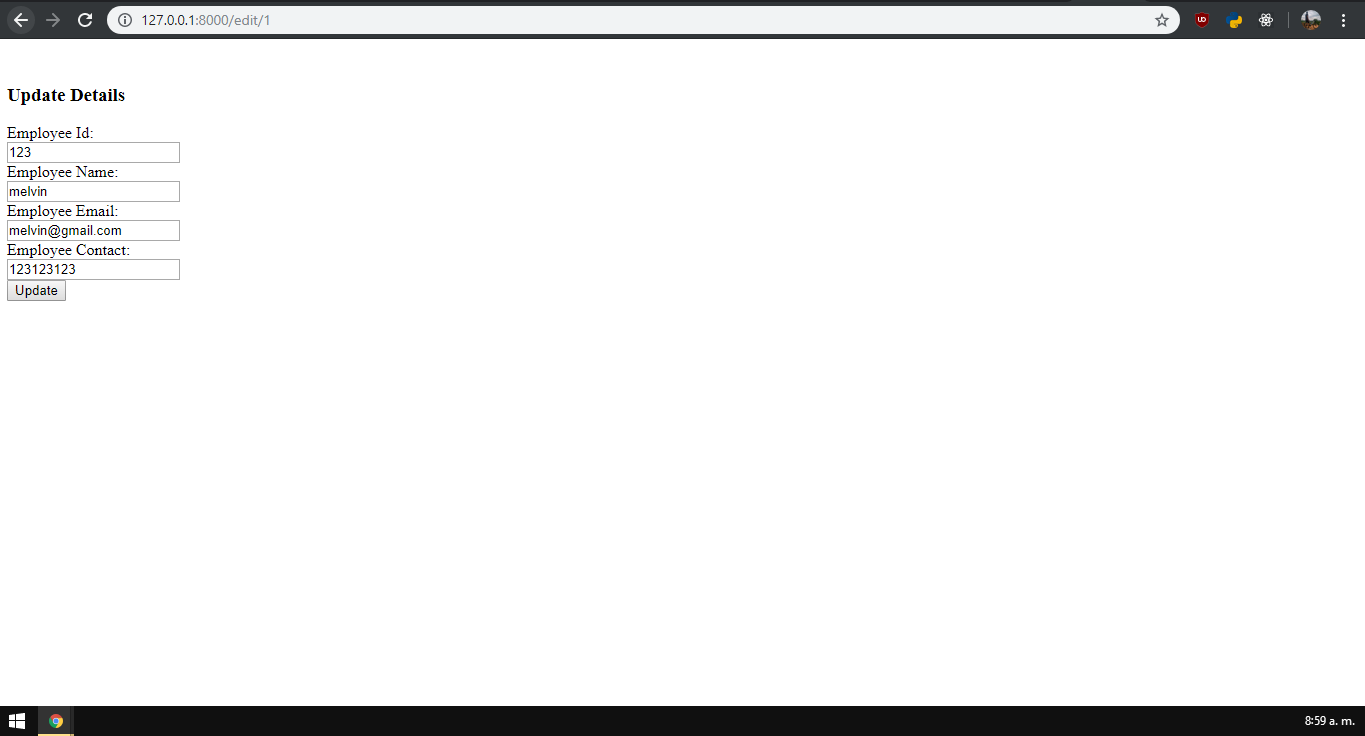
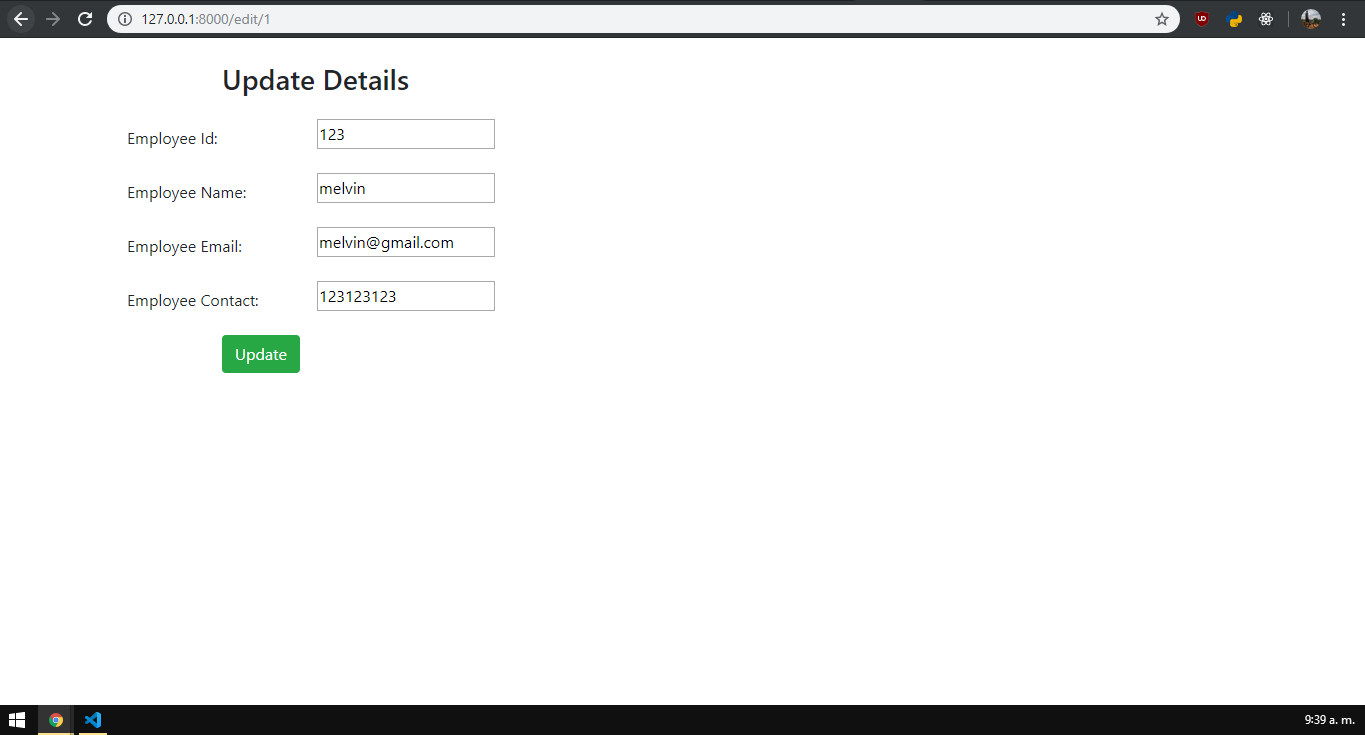
Add bootstrap

diff --git a/employee/templates/edit.html b/employee/templates/edit.html
@@ -1,53 +1,66 @@
-<!DOCTYPE html>  
-<html lang="en">  
-<head>  
-    <meta charset="UTF-8">  
-    <title>Index</title>  
-    {% load staticfiles %}  
-    <link rel="stylesheet" href="{% static 'css/style.css' %}"/>  
-</head>  
-<body>  
-<form method="POST" class="post-form" action="/update/{{employee.id}}">  
-        {% csrf_token %}  
-    <div class="container">  
-<br>  
-    <div class="form-group row">  
-    <label class="col-sm-1 col-form-label"></label>  
-    <div class="col-sm-4">  
-    <h3>Update Details</h3>  
-    </div>  
-  </div>  
-    <div class="form-group row">  
-    <label class="col-sm-2 col-form-label">Employee Id:</label>  
-    <div class="col-sm-4">  
-        <input type="text" name="eid" id="id_eid" required maxlength="20" value="{{ employee.eid }}"/>  
-    </div>  
-  </div>  
-  <div class="form-group row">  
-    <label class="col-sm-2 col-form-label">Employee Name:</label>  
-    <div class="col-sm-4">  
-        <input type="text" name="ename" id="id_ename" required maxlength="100" value="{{ employee.ename }}" />  
-    </div>  
-  </div>  
-    <div class="form-group row">  
-    <label class="col-sm-2 col-form-label">Employee Email:</label>  
-    <div class="col-sm-4">  
-        <input type="email" name="eemail" id="id_eemail" required maxlength="254" value="{{ employee.eemail }}" />  
-    </div>  
-  </div>  
-    <div class="form-group row">  
-    <label class="col-sm-2 col-form-label">Employee Contact:</label>  
-    <div class="col-sm-4">  
-        <input type="text" name="econtact" id="id_econtact" required maxlength="15" value="{{ employee.econtact }}" />  
-    </div>  
-  </div>  
-    <div class="form-group row">  
-    <label class="col-sm-1 col-form-label"></label>  
-    <div class="col-sm-4">  
-    <button type="submit" class="btn btn-success">Update</button>  
-    </div>  
-  </div>  
-    </div>  
-</form>  
-</body>  
-</html>  
+<!DOCTYPE html>
+<html lang="en">
+
+<head>
+  <meta charset="UTF-8">
+  <title>Index</title>
+  {% load staticfiles %}
+  <link rel="stylesheet" href="https://stackpath.bootstrapcdn.com/bootstrap/4.3.1/css/bootstrap.min.css"
+    integrity="sha384-ggOyR0iXCbMQv3Xipma34MD+dH/1fQ784/j6cY/iJTQUOhcWr7x9JvoRxT2MZw1T" crossorigin="anonymous">
+</head>
+
+<body>
+  <script src="https://code.jquery.com/jquery-3.3.1.slim.min.js"
+    integrity="sha384-q8i/X+965DzO0rT7abK41JStQIAqVgRVzpbzo5smXKp4YfRvH+8abtTE1Pi6jizo"
+    crossorigin="anonymous"></script>
+  <script src="https://cdnjs.cloudflare.com/ajax/libs/popper.js/1.14.7/umd/popper.min.js"
+    integrity="sha384-UO2eT0CpHqdSJQ6hJty5KVphtPhzWj9WO1clHTMGa3JDZwrnQq4sF86dIHNDz0W1"
+    crossorigin="anonymous"></script>
+  <script src="https://stackpath.bootstrapcdn.com/bootstrap/4.3.1/js/bootstrap.min.js"
+    integrity="sha384-JjSmVgyd0p3pXB1rRibZUAYoIIy6OrQ6VrjIEaFf/nJGzIxFDsf4x0xIM+B07jRM"
+    crossorigin="anonymous"></script>
+  <form method="POST" class="post-form" action="/update/{{employee.id}}">
+    {% csrf_token %}
+    <div class="container">
+      <br>
+      <div class="form-group row">
+        <label class="col-sm-1 col-form-label"></label>
+        <div class="col-sm-4">
+          <h3>Update Details</h3>
+        </div>
+      </div>
+      <div class="form-group row">
+        <label class="col-sm-2 col-form-label">Employee Id:</label>
+        <div class="col-sm-4">
+          <input type="text" name="eid" id="id_eid" required maxlength="20" value="{{ employee.eid }}" />
+        </div>
+      </div>
+      <div class="form-group row">
+        <label class="col-sm-2 col-form-label">Employee Name:</label>
+        <div class="col-sm-4">
+          <input type="text" name="ename" id="id_ename" required maxlength="100" value="{{ employee.ename }}" />
+        </div>
+      </div>
+      <div class="form-group row">
+        <label class="col-sm-2 col-form-label">Employee Email:</label>
+        <div class="col-sm-4">
+          <input type="email" name="eemail" id="id_eemail" required maxlength="254" value="{{ employee.eemail }}" />
+        </div>
+      </div>
+      <div class="form-group row">
+        <label class="col-sm-2 col-form-label">Employee Contact:</label>
+        <div class="col-sm-4">
+          <input type="text" name="econtact" id="id_econtact" required maxlength="15" value="{{ employee.econtact }}" />
+        </div>
+      </div>
+      <div class="form-group row">
+        <label class="col-sm-1 col-form-label"></label>
+        <div class="col-sm-4">
+          <button type="submit" class="btn btn-success">Update</button>
+        </div>
+      </div>
+    </div>
+  </form>
+</body>
+
+</html>

diff --git a/employee/templates/index.html b/employee/templates/index.html
@@ -1,53 +1,59 @@
-<!DOCTYPE html>  
-<html lang="en">  
-<head>  
-    <meta charset="UTF-8">  
-    <title>Index</title>  
-    {% load staticfiles %}  
-    <link rel="stylesheet" href="{% static 'css/style.css' %}"/>  
-</head>  
-<body>  
-<form method="POST" class="post-form" action="/emp">  
-        {% csrf_token %}  
-    <div class="container">  
-<br>  
-    <div class="form-group row">  
-    <label class="col-sm-1 col-form-label"></label>  
-    <div class="col-sm-4">  
-    <h3>Enter Details</h3>  
-    </div>  
-  </div>  
-    <div class="form-group row">  
-    <label class="col-sm-2 col-form-label">Employee Id:</label>  
-    <div class="col-sm-4">  
-      {{ form.eid }}  
-    </div>  
-  </div>  
-  <div class="form-group row">  
-    <label class="col-sm-2 col-form-label">Employee Name:</label>  
-    <div class="col-sm-4">  
-      {{ form.ename }}  
-    </div>  
-  </div>  
-    <div class="form-group row">  
-    <label class="col-sm-2 col-form-label">Employee Email:</label>  
-    <div class="col-sm-4">  
-      {{ form.eemail }}  
-    </div>  
-  </div>  
-    <div class="form-group row">  
-    <label class="col-sm-2 col-form-label">Employee Contact:</label>  
-    <div class="col-sm-4">  
-      {{ form.econtact }}  
-    </div>  
-  </div>  
-    <div class="form-group row">  
-    <label class="col-sm-1 col-form-label"></label>  
-    <div class="col-sm-4">  
-    <button type="submit" class="btn btn-primary">Submit</button>  
-    </div>  
-  </div>  
-    </div>  
-</form>  
-</body>  
-</html>  
+<!DOCTYPE html>
+<html lang="en">
+
+<head>
+  <meta charset="UTF-8">
+  <title>Index</title>
+  {% load staticfiles %}
+  <link rel="stylesheet" href="https://stackpath.bootstrapcdn.com/bootstrap/4.3.1/css/bootstrap.min.css" integrity="sha384-ggOyR0iXCbMQv3Xipma34MD+dH/1fQ784/j6cY/iJTQUOhcWr7x9JvoRxT2MZw1T" crossorigin="anonymous">
+</head>
+
+<body>
+    <script src="https://code.jquery.com/jquery-3.3.1.slim.min.js" integrity="sha384-q8i/X+965DzO0rT7abK41JStQIAqVgRVzpbzo5smXKp4YfRvH+8abtTE1Pi6jizo" crossorigin="anonymous"></script>
+    <script src="https://cdnjs.cloudflare.com/ajax/libs/popper.js/1.14.7/umd/popper.min.js" integrity="sha384-UO2eT0CpHqdSJQ6hJty5KVphtPhzWj9WO1clHTMGa3JDZwrnQq4sF86dIHNDz0W1" crossorigin="anonymous"></script>
+    <script src="https://stackpath.bootstrapcdn.com/bootstrap/4.3.1/js/bootstrap.min.js" integrity="sha384-JjSmVgyd0p3pXB1rRibZUAYoIIy6OrQ6VrjIEaFf/nJGzIxFDsf4x0xIM+B07jRM" crossorigin="anonymous"></script>
+  <form method="POST" class="post-form" action="/emp">
+    {% csrf_token %}
+    <div class="container">
+      <br>
+      <div class="form-group row">
+        <label class="col-sm-1 col-form-label"></label>
+        <div class="col-sm-4">
+          <h3>Enter Details</h3>
+        </div>
+      </div>
+      <div class="form-group row">
+        <label class="col-sm-2 col-form-label">Employee Id:</label>
+        <div class="col-sm-4">
+          {{ form.eid }}
+        </div>
+      </div>
+      <div class="form-group row">
+        <label class="col-sm-2 col-form-label">Employee Name:</label>
+        <div class="col-sm-4">
+          {{ form.ename }}
+        </div>
+      </div>
+      <div class="form-group row">
+        <label class="col-sm-2 col-form-label">Employee Email:</label>
+        <div class="col-sm-4">
+          {{ form.eemail }}
+        </div>
+      </div>
+      <div class="form-group row">
+        <label class="col-sm-2 col-form-label">Employee Contact:</label>
+        <div class="col-sm-4">
+          {{ form.econtact }}
+        </div>
+      </div>
+      <div class="form-group row">
+        <label class="col-sm-1 col-form-label"></label>
+        <div class="col-sm-4">
+          <button type="submit" class="btn btn-primary">Submit</button>
+        </div>
+      </div>
+    </div>
+  </form>
+</body>
+
+</html>

diff --git a/employee/templates/show.html b/employee/templates/show.html
@@ -4,9 +4,12 @@
     <meta charset="UTF-8">  
     <title>Employee Records</title>  
      {% load staticfiles %}  
-    <link rel="stylesheet" href="{% static 'css/style.css' %}"/>  
+     <link rel="stylesheet" href="https://stackpath.bootstrapcdn.com/bootstrap/4.3.1/css/bootstrap.min.css" integrity="sha384-ggOyR0iXCbMQv3Xipma34MD+dH/1fQ784/j6cY/iJTQUOhcWr7x9JvoRxT2MZw1T" crossorigin="anonymous">  
 </head>  
-<body>  
+<body>
+        <script src="https://code.jquery.com/jquery-3.3.1.slim.min.js" integrity="sha384-q8i/X+965DzO0rT7abK41JStQIAqVgRVzpbzo5smXKp4YfRvH+8abtTE1Pi6jizo" crossorigin="anonymous"></script>
+        <script src="https://cdnjs.cloudflare.com/ajax/libs/popper.js/1.14.7/umd/popper.min.js" integrity="sha384-UO2eT0CpHqdSJQ6hJty5KVphtPhzWj9WO1clHTMGa3JDZwrnQq4sF86dIHNDz0W1" crossorigin="anonymous"></script>
+        <script src="https://stackpath.bootstrapcdn.com/bootstrap/4.3.1/js/bootstrap.min.js" integrity="sha384-JjSmVgyd0p3pXB1rRibZUAYoIIy6OrQ6VrjIEaFf/nJGzIxFDsf4x0xIM+B07jRM" crossorigin="anonymous"></script>  
 <table class="table table-striped table-bordered table-sm">  
     <thead class="thead-dark">  
     <tr>  
